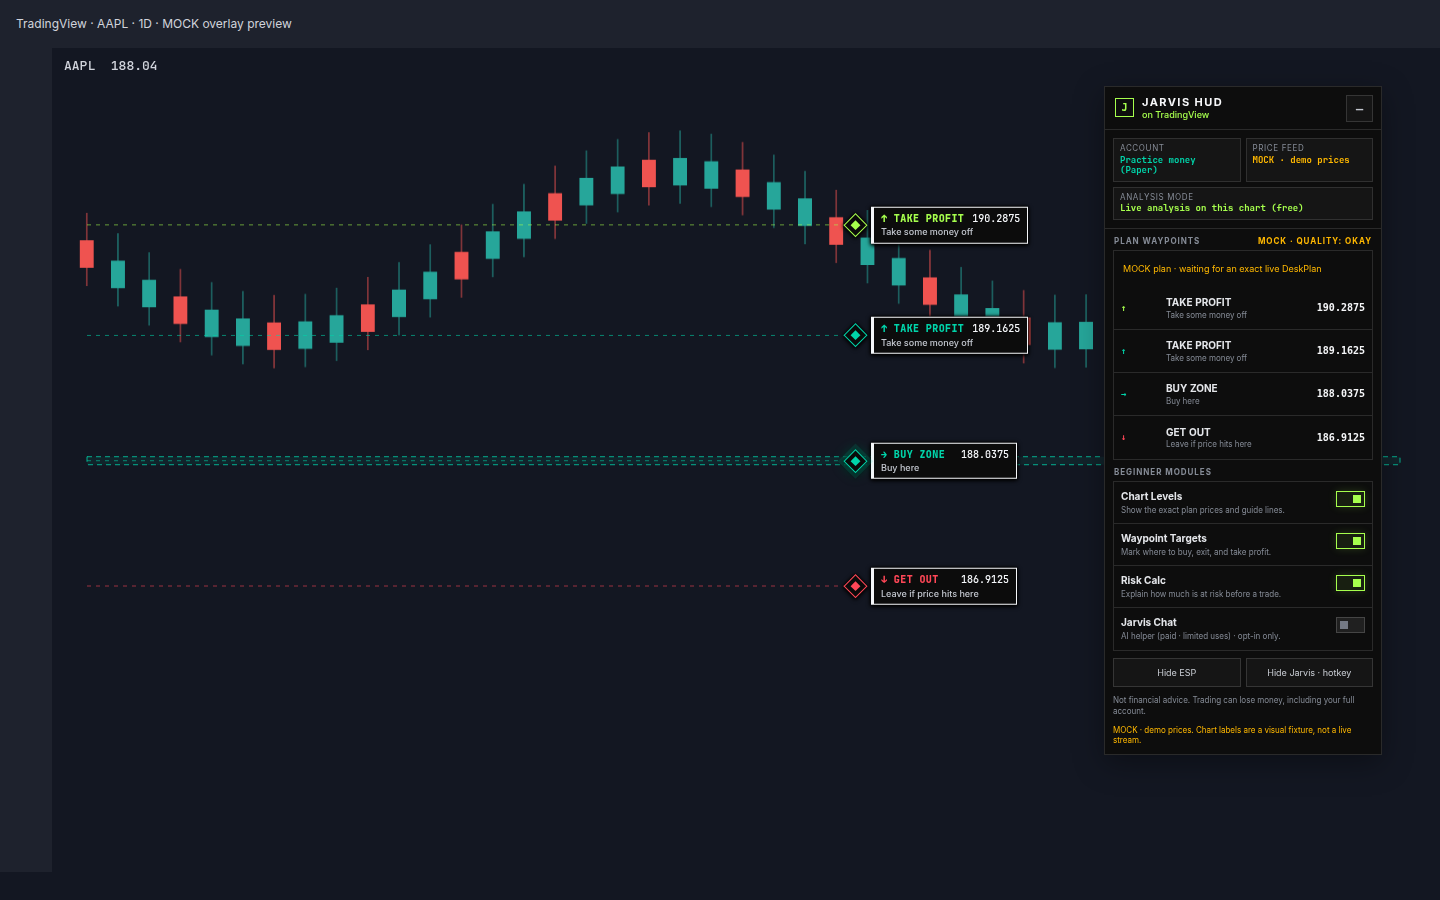
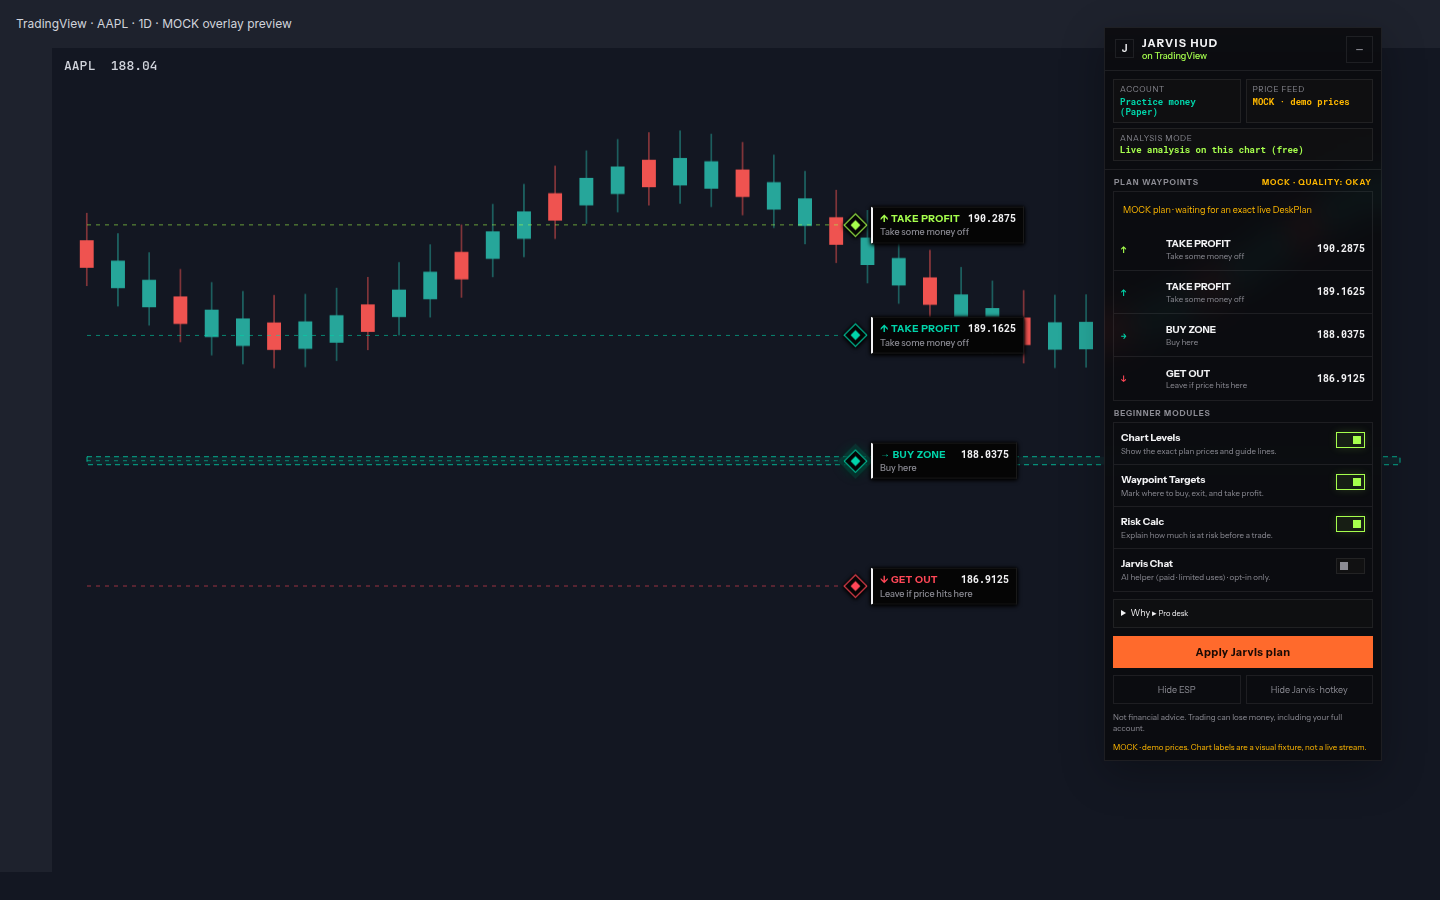
Sync Design SoT v0.2.6 and apply Invertix dock tokens
Copy the locked Spec and retoken the overlay dock for full-surface
§0c craft (void/panel/hairline/sparse glass) without changing MOCK
chrome, kid-clear labels, or Why-off-surface rules.

diff --git a/content.js b/content.js
@@ -238,17 +238,22 @@
       :host {
         all: initial;
         color-scheme: dark;
-        --jx-void: #050505;
-        --jx-panel: #141414;
-        --jx-ivory: #F5EFE6;
-        --jx-ivory-muted: #EBDCB3;
-        --jx-hairline: rgba(255, 255, 255, 0.05);
-        --jx-glass: rgba(5, 5, 5, 0.64);
+        --jx-void: #050507;
+        --jx-panel: #0A0A0C;
+        --jx-text: #F2F2F4;
+        --jx-mute: #8B8B93;
+        --jx-ivory: var(--jx-text);
+        --jx-ivory-muted: var(--jx-mute);
+        --jx-hairline: rgba(255, 255, 255, 0.08);
+        --jx-glass: rgba(255, 255, 255, 0.04);
         --jx-cta: #FF6A2C;
+        --jx-system: #00D4AA;
         --jx-buy: #00D4AA;
         --jx-stop: #FF4757;
+        --jx-risk: #FF4757;
         --jx-active: #A6FF4D;
         --jx-warning: #FFB800;
+        --jx-warn: #FFB800;
         --jarvis-entry: var(--jx-buy);
         --jarvis-stop: var(--jx-stop);
         --jarvis-active: var(--jx-active);
@@ -344,8 +349,8 @@
         border: 1px solid var(--jx-hairline);
         border-left: 2px solid currentColor;
         font: 600 10px/1.25 var(--jx-sans);
-        backdrop-filter: blur(12px);
-        -webkit-backdrop-filter: blur(12px);
+        backdrop-filter: blur(14px);
+        -webkit-backdrop-filter: blur(14px);
       }
 
       .waypoint-label strong { color: var(--waypoint-color); letter-spacing: .04em; }
@@ -365,11 +370,11 @@
         z-index: 799;
         width: 278px;
         color: var(--jx-ivory);
-        background: var(--jx-glass);
+        background: rgba(10, 10, 12, 0.82);
         border: 1px solid var(--jx-hairline);
         box-shadow: 0 12px 40px rgba(0, 0, 0, .28);
-        backdrop-filter: blur(14px);
-        -webkit-backdrop-filter: blur(14px);
+        backdrop-filter: blur(16px);
+        -webkit-backdrop-filter: blur(16px);
         pointer-events: auto;
       }
 

diff --git a/docs/DESIGN.md b/docs/DESIGN.md
@@ -1,8 +1,8 @@
-# Jarvis — Design Spec v0.2.7 (SoT)
+# Jarvis — Design Spec v0.2.6 (SoT)
 
 **Owner:** VP of Design · **Report to:** COO only · **Do not merge**
 **Repo:** https://github.com/aspher1/Jarvis-main
-**Comps:** `/workspace/jarvis-design/INVERTIX-COMPS.md` (UI Research live tokens), `/workspace/jarvis-design/invertix-shots/`, `/workspace/jarvis-design/RESEARCH-HUD-COMPS.md`, `/workspace/jarvis-design/COMPS.md`
+**Comps:** `/workspace/jarvis-design/RESEARCH-HUD-COMPS.md`, `/workspace/jarvis-design/COMPS.md`, `/workspace/jarvis-design/INVERTIX-COMPS-NOTES.md`, `/workspace/jarvis-design/invertix-comps/`
 **Craft bar:** Invertix-grade premium dark AI-agent OS (https://www.invertix.ai/) — Randy/COO lock
 
 ---
@@ -106,46 +106,47 @@ Coach / first-run: floating tip, dismissible, **never** blocks the chart.
 
 ---
 
-## 0c. Invertix craft tokens (P0 — locked)
+## 0c. Invertix-grade craft (P0 — visual bar raise)
 
-Live bar is invertix.ai (void field, ivory type, Instrument Sans, sparse glass, hairline white/5, orange reserved for the money click). Overlay dock, badges, and waypoint plates use these tokens. **Do not** restyle the host page.
+Randy/COO lock: UI must feel like **Invertix** — premium dark AI-agent operating system.
+**ALL Invertix screens are the bar** — hero, **dashboard**, and **agent panels** — not a single marketing page. Apply §0c tokens across the **full Jarvis surface**:
 
-### Shared `--jx-*` tokens (C-P0-01)
+| Surface | Invertix weight |
+|---------|-----------------|
+| Companion watchlist / home | Hero + list density like Invertix landing→ops calm |
+| Companion `/trade` cockpit | Dashboard-grade panels + chart world |
+| Companion blotter / settings / how-it-works | Agent-panel craft (glass islands, editorial type) |
+| Overlay module dock + badges | Agent-panel OS chrome on host |
+| Overlay ESP / waypoints | Keep kid-clear BUY ZONE / TAKE PROFIT / GET OUT; Invertix contrast/scrim/type |
+
+Product language stays kid-clear ESP; **craft** rises everywhere.
+
+### Tokens (companion + overlay)
 
 | Token | Value | Use |
 |-------|-------|-----|
-| `--jx-void` | `#050505` | Dock field / deepest plate |
-| `--jx-panel` | `#141414` | Raised rows, badge wells |
-| `--jx-ivory` | `#F5EFE6` | Primary type |
-| `--jx-ivory-muted` | `#EBDCB3` | Secondary type |
-| `--jx-hairline` | `rgba(255,255,255,0.05)` | 1px borders (white/5) |
-| `--jx-glass` | `rgba(5,5,5,0.64)` + `blur(14px)` | Sparse dock glass (12–16px) |
-| `--jx-cta` | `#FF6A2C` | **Apply Jarvis plan** / **Place** only |
-| `--jx-buy` | `#00D4AA` | BUY ZONE / entry / ice cyan |
-| `--jx-stop` | `#FF4757` | GET OUT / stop / coral |
-| `--jx-active` | `#A6FF4D` | Sparse module-ON pulse |
-| `--jx-warning` | `#FFB800` | Delayed / weak plan |
+| `--jx-void` | `#050507` | App/extension deepest bg |
+| `--jx-panel` | `#0A0A0C` / `rgba(255,255,255,0.04)` | Panels / glass fill |
+| `--jx-hairline` | `rgba(255,255,255,0.08)` | 1px borders |
+| `--jx-glass` | `backdrop-filter: blur(12–16px)` + hairline | Module dock, Why sheet — sparse only |
+| `--jx-text` | `#F2F2F4` | Primary labels |
+| `--jx-mute` | `#8B8B93` | Secondary |
+| `--jx-system` | `#5CE1E6` or `#00D4AA` | System / BUY ZONE / active agent |
+| `--jx-risk` | `#FF4757` | GET OUT / live armed |
+| `--jx-warn` | `#FFB800` | Delayed / weak plan |
+| Type display | Editorial premium sans or restrained serif | Titles / agent names |
+| Type data | JetBrains Mono / IBM Plex Mono + `tnum` | Prices, lag, R inside Why |
 
-**Type:** Instrument Sans for labels / plain English. Roboto Mono (JetBrains Mono fallback) + `tnum` for prices, qty, lag. `font-feature-settings: "ss01", "ss02"` on editorial type.
+### Craft rules
 
-**CTA rule:** `--jx-cta` is the money click. Hide / collapse / toggles stay ivory-on-void hairline. Never paint BUY ZONE, TAKE PROFIT, GET OUT, or module-ON in orange.
+1. **Deeper blacks + luminance steps** — no flat muddy gray SaaS canvas.
+2. **Sparse glass** — one dock + one sheet max; never full-screen frosted overlay on the chart.
+3. **Editorial hierarchy** — big calm titles; micro labels uppercase tracked; numbers mono.
+4. **Agent OS chrome** — status as small peripheral instruments (Invertix “AI workforce” calm), not toy widgets.
+5. **ESP stays readable** — Invertix polish must not soften BUY ZONE / TAKE PROFIT / GET OUT contrast or arrow cues.
+6. **Screenshot PASS** adds: “Does this look Invertix-grade or generic dark SaaS?” — FAIL if generic.
 
-**Anti-goals (still locked):** purple SaaS · Inter-on-#0D0D0D terminal leftovers · neon glass soup · opaque full-bleed HUD · orange waypoint soup.
-
-### Overlay dock IDs (from INVERTIX-GAP-P0 — O-P0 this spike)
-
-| ID | Surface | Requirement |
-|----|---------|-------------|
-| **C-P0-01** | Shared tokens | Overlay and cockpit speak `--jx-*`; void / ivory / Instrument Sans / mono |
-| **O-P0-01** | Overlay dock | Void field + ivory type + Instrument Sans on brand, badges, modules, copy |
-| **O-P0-02** | Overlay dock / plates | Hairline `white/5` only — no `#2A2A2A` SaaS hairline |
-| **O-P0-03** | Overlay dock | Sparse glass (`blur` 12–16px, ≤64% void). Not frosted soup, not opaque slab |
-| **O-P0-04** | Overlay CTA | `--jx-cta #FF6A2C` on **Apply Jarvis plan** (and **Place** if present). No other chrome |
-| **O-P0-05** | Waypoints / ESP | BUY ZONE ice cyan `#00D4AA`; GET OUT coral `#FF4757`; TAKE PROFIT cyan/lime. Orange never |
-| **O-P0-06** | Why / R | **Why** expander present and **collapsed** in Beginner. R, bias, setup name off the surface |
-| **O-P0-07** | Yahoo / light hosts | Stronger void scrim + hairline plate on waypoint labels (adapter contrast only) |
-
-Cockpit C-P0 rows beyond shared tokens are owned by the standalone app, not this overlay spike.
+Evidence: `/workspace/jarvis-design/INVERTIX-COMPS-NOTES.md` + `invertix-comps/` shots.
 
 ---
 
@@ -157,17 +158,15 @@ Leave host chrome alone (TV / Webull / Yahoo). Jarvis draws *on top* via extensi
 
 ### 1b. Standalone cockpit base (secondary)
 
-- Invertix void `#050505` / panel `#141414`, hairline `white/5`, square corners
-- Chart hero; sparse glass on chrome only; desktop 1280+
-- Same `--jx-*` tokens as the overlay dock
+- Dark-only Invertix void: `--jx-void` / `--jx-panel`, hairline `--jx-hairline`, square or 2px radius max, shared borders
+- Chart hero; flat fills; desktop 1280+
 
 ### 1c. Mod overlay (both surfaces)
 
-- Cyan/teal `#00D4AA` = buy / BUY ZONE / T1
+- Cyan/teal `#00D4AA` = buy / ENTRY / T1–T2
 - Lime `#A6FF4D` = active module / beacon pulse (sparse)
-- Coral `#FF4757` = GET OUT / STOP / loss / live armed
+- Coral `#FF4757` = STOP / loss / live armed
 - Amber `#FFB800` = warning / delayed / weak plan
-- Orange `#FF6A2C` = Apply / Place **only**
 - ESP box ≤8% fill; waypoint beacons with outline/scrim; tracer lines price → levels
 - Module row: ON glow + **plain-English subtitle**
 
@@ -179,9 +178,9 @@ Leave host chrome alone (TV / Webull / Yahoo). Jarvis draws *on top* via extensi
 
 | Use | Face | Notes |
 |-----|------|-------|
-| Prices, qty, levels, lag | Roboto Mono / JetBrains Mono / IBM Plex Mono + `tnum` | Numbers only |
-| Labels / plain English | Instrument Sans | Micro labels 10–12px OK; `ss01` / `ss02` |
-| Beginner decision card | Larger Instrument Sans | **BUY ZONE · TAKE PROFIT · GET OUT** · Shares |
+| Prices, qty, levels, lag | JetBrains Mono / IBM Plex Mono + `tnum` | Numbers only |
+| Labels / plain English | Inter | Micro labels 10–12px OK |
+| Beginner decision card | Larger | **BUY ZONE · TAKE PROFIT · GET OUT** · Shares |
 
 Color never alone — pair with BUY/SELL or ▲/▼.
 
@@ -198,7 +197,7 @@ Color never alone — pair with BUY/SELL or ▲/▼.
 | Paid LLM | AI helper (paid · limited uses) | Opt-in; show remaining uses |
 | Paper | Practice money (Paper) | — |
 | Live | Real money (Live) | Typed confirm required |
-| Feed | Prices: Live · Xms / Delayed · ~15m / POLLING (slower) | MOCK · demo prices when no live stream |
+| Feed | Prices: Live · Xms / Delayed · ~15m / POLLING (slower) | — |
 
 Finger/arrow cues on every active BUY ZONE / TAKE PROFIT / GET OUT.
 Jargon (`T1`, `STOP`, `R-multiple`) = secondary micro-text in Pro only, or Details.
@@ -212,8 +211,8 @@ Plan checklist: (1) Check BUY ZONE (2) Set GET OUT (3) Place order
 
 | Surface | Primary CTA | Notes |
 |---------|-------------|-------|
-| **Host extension** (TV / Webull / Yahoo / Universal) | **Apply Jarvis plan** (`--jx-cta`) → order path in panel or deep-link standalone | Hide Jarvis hotkey; host badge visible |
-| Standalone `/trade/[symbol]` | Apply plan → Place PAPER/LIVE (`--jx-cta` on Apply/Place only) | Secondary; same tokens |
+| **Host extension** (TV / Webull / Yahoo / Universal) | **Apply Jarvis plan** → order path in panel or deep-link standalone | Hide Jarvis hotkey; host badge visible |
+| Standalone `/trade/[symbol]` | Apply plan → Place PAPER/LIVE | Secondary; same tokens |
 | Blotter / Settings / How it works | as before | Prefer standalone for dense settings |
 
 Beginner modules default ON: ESP Levels · Waypoint Targets · Risk Calc · Jarvis Chat. Algo Radar / Copy Aura quieter.
@@ -225,7 +224,6 @@ Beginner modules default ON: ESP Levels · Waypoint Targets · Risk Calc · Jarv
 - **Not financial advice. Trading can lose money including your full account.**
 - Plan quality: Strong / Okay / Skip
 - Forbidden: “guaranteed”, “get rich”, “always wins”, “risk-free”
-- R / bias never on the default surface — **Why** only, collapsed
 
 ---
 
@@ -237,13 +235,13 @@ PASS if a non-trader answers in <10s on a **host page with overlay:**
 
 1. **BUY ZONE / TAKE PROFIT / GET OUT** visible on chart (finger/arrow cues)
 2. Paper vs Live
-3. Live vs Delayed prices (MOCK ≠ Delayed)
+3. Live vs Delayed prices
 4. Can hide Jarvis in one click/hotkey without reloading the host
 5. Chart still pan/zoomable (non-blocking)
 6. Correct host badge; Universal dock still usable if chart mount fails
-7. Dock reads Invertix: void/ivory/Instrument Sans, hairline white/5, sparse glass, orange **Apply** only
+7. **Invertix-grade** on companion dashboard *and* agent panels *and* overlay dock — FAIL if only one screen looks polished
 
-Secondary: standalone cockpit shots matching the same language.
+Secondary: standalone cockpit shots matching the same language across watchlist, cockpit, blotter.
 
 ---
 
@@ -269,8 +267,7 @@ Secondary: standalone cockpit shots matching the same language.
 6. Paper→Live confirm + $-loss language
 7. Alert states Active / Triggered / Paused / Expired
 8. No fill confetti
-9. Invertix dock craft (void / ivory / glass / `--jx-cta`) on overlay + cockpit
 
 ---
 
-*Jarvis Design Spec v0.2.7 · 2026-09-18 · VP of Design · Invertix §0c overlay tokens + Why collapsed; exact level placement*
+*Jarvis Design Spec v0.2.6 · 2026-09-18 · VP of Design · Invertix bar = hero + dashboard + agent panels, full surface*

diff --git a/README.md b/README.md
@@ -57,7 +57,7 @@ There is no LLM-per-tick path or timer batching. Until the stream bridge lands, 
 - The optional Jarvis Chat toggle is off by default and identified as **AI helper (paid · limited uses)**. This spike does not connect to a paid service.
 - On-chart labels lead with kid-clear actions: **→ BUY ZONE** (“Buy here”), **↑ TAKE PROFIT** (“Take some money off”), and **↓ GET OUT** (“Leave if price hits here”), each paired with the exact mono plan price.
 - Optional bias, invalidation, reward:risk, and setup name are confined to a collapsed **Why** expander. Quality is always shown as Strong, Okay, or Skip when a plan is active.
-- Overlay dock craft follows Invertix §0c: void/ivory/Instrument Sans/mono, hairline `white/5`, sparse glass, and `--jx-cta #FF6A2C` on **Apply Jarvis plan** only. BUY ZONE stays cyan; GET OUT stays coral.
+- Overlay dock craft follows Invertix §0c on the full HUD surface: `--jx-void #050507`, `--jx-panel #0A0A0C`, hairline `white/8`, sparse glass blur 12–16px, editorial sans + mono prices, `--jx-cta #FF6A2C` on **Apply Jarvis plan** only. BUY ZONE stays cyan; GET OUT stays coral. This spike is overlay-only; companion screens are out of repo but share the same tokens.
 
 ## Files
 
@@ -65,7 +65,7 @@ There is no LLM-per-tick path or timer batching. Until the stream bridge lands, 
 - `adapters.js` — TradingView, Webull, Yahoo Finance, and Universal registry
 - `desk-plan.js` — testable exact-price and freshness contract validation
 - `content.js` — shared shadow-DOM dock, ESP, waypoints, modules, and layout
-- `docs/DESIGN.md` — locked Design SoT v0.2.7
+- `docs/DESIGN.md` — locked Design SoT v0.2.6
 - `docs/DESKPLAN.md` — canonical Risk/Algos-to-HUD rendering contract
 - `docs/DEMO.md` — multi-host screenshot and interaction checklist
 
